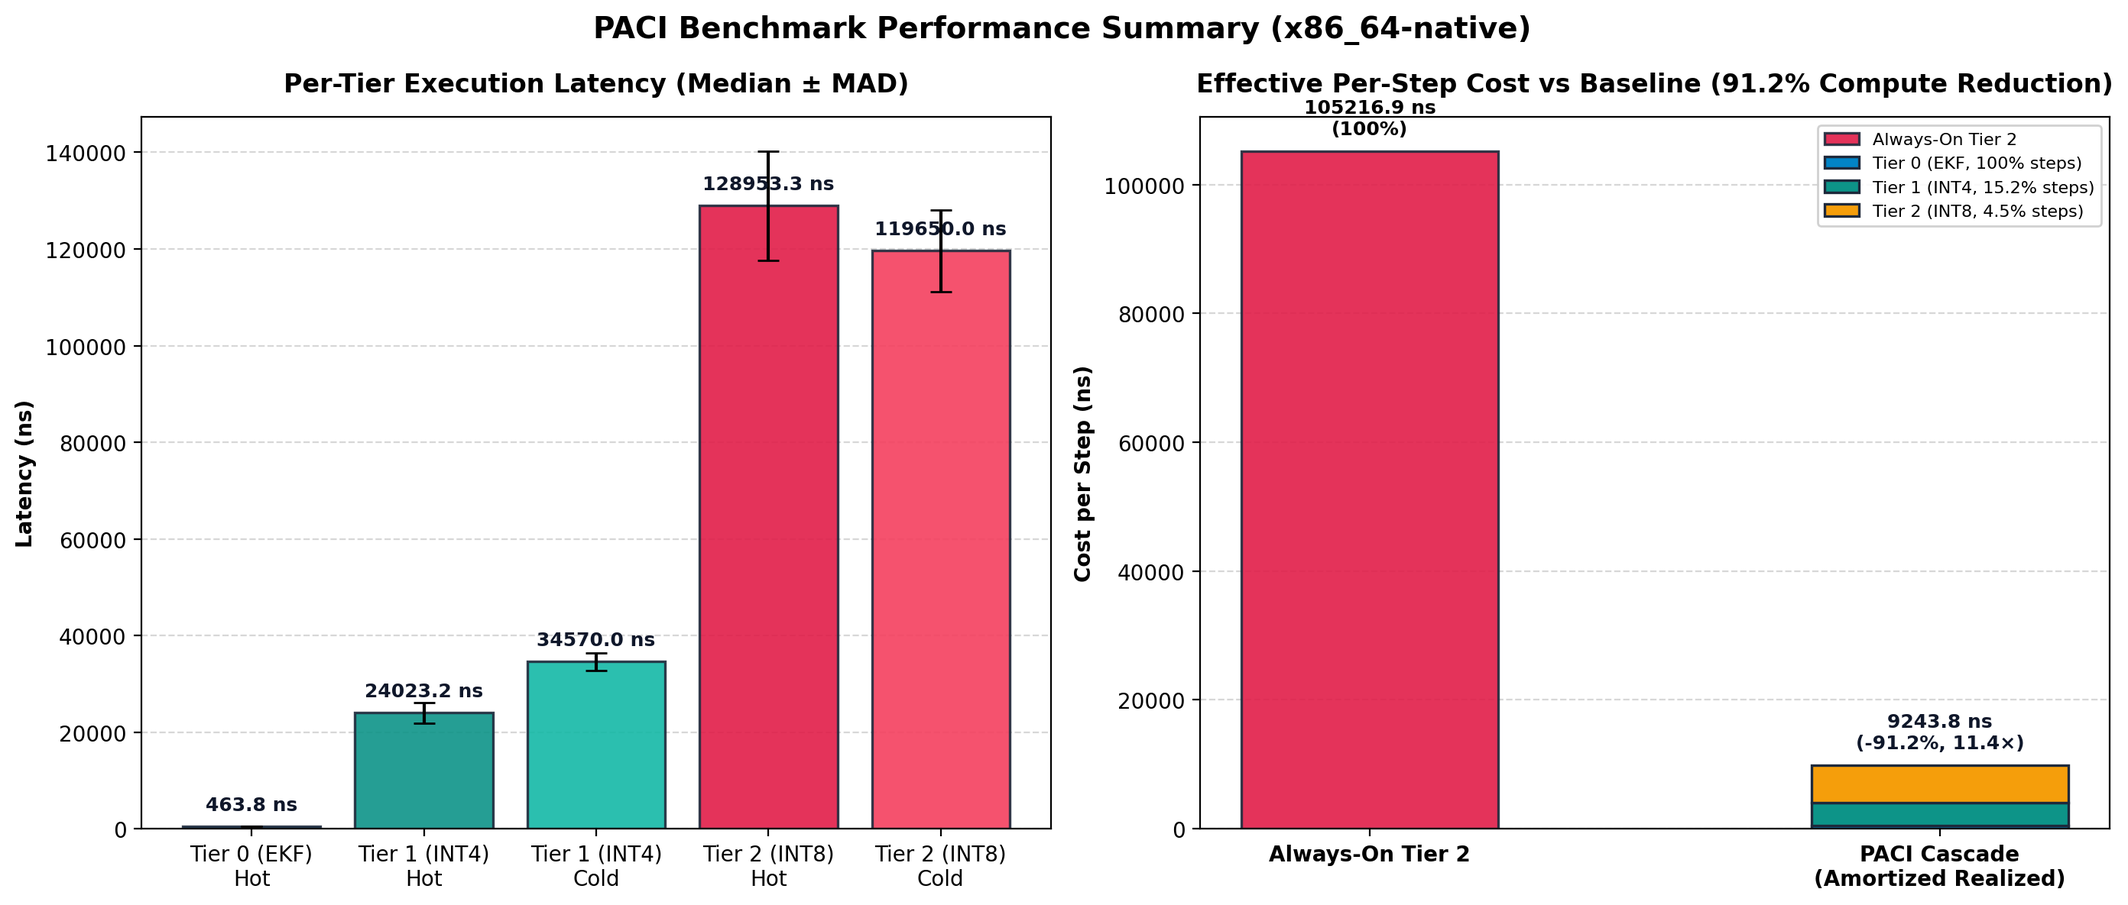
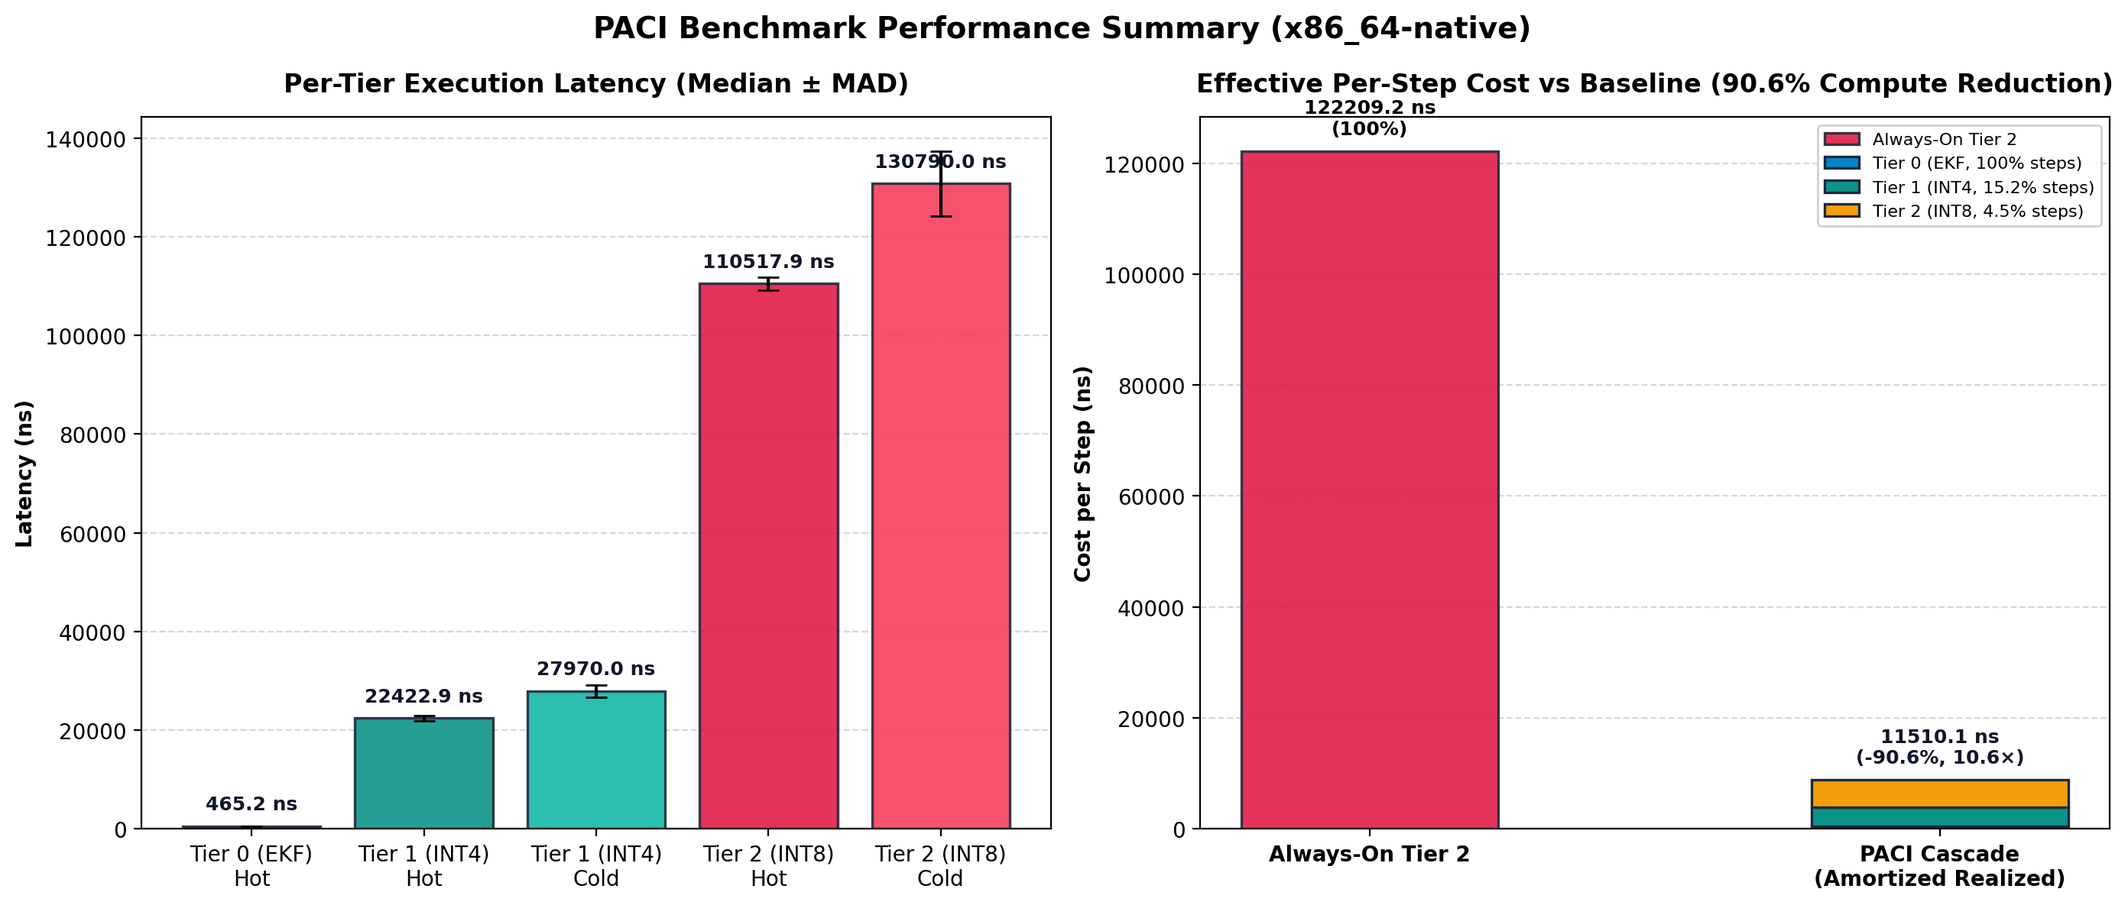
finalize: synchronize Schema v3 definitions, benchmark evidence, and 96-test count across all documentation

diff --git a/docs/presentation.html b/docs/presentation.html
@@ -353,7 +353,7 @@
     <div class="slide-container" id="slide-4">
         <div class="header">
             <span class="badge">Results</span>
-            <span>Schema v2 Measured Benchmarks</span>
+            <span>Schema v3 Measured Benchmarks</span>
         </div>
         <div class="content">
             <h2 class="slide-title">Measured Baseline Comparison & Energy Savings</h2>

diff --git a/bench/report.py b/bench/report.py
@@ -1,7 +1,7 @@
 # SPDX-License-Identifier: Apache-2.0
-"""Benchmark Reporting Tool for PACI-Arm (Schema v2).
+"""Benchmark Reporting Tool for PACI-Arm (Schema v3).
 
-Reads a benchmark JSON file conforming to Schema v2 (bench/bench_json.h/c),
+Reads a benchmark JSON file conforming to Schema v3 (bench/bench_json.h/c),
 validates all fields strictly, and produces:
   1. A structured Markdown benchmark report (Execution Latency, Cascade Trace,
      Memory Footprint, and Platform Metadata).
@@ -53,15 +53,15 @@ def _validate_dict(val: Any, name: str) -> Dict[str, Any]:
     return val
 
 
-def validate_and_parse_schema_v2(data: Any) -> Dict[str, Any]:
-    """Strictly validates benchmark JSON against Schema v2.
+def validate_and_parse_schema_v3(data: Any) -> Dict[str, Any]:
+    """Strictly validates benchmark JSON against Schema v3.
 
     Raises ValueError or KeyError if any required field is missing or malformed.
     """
     if not isinstance(data, dict):
         raise ValueError(f"Benchmark JSON root must be an object, got {type(data).__name__}")
 
-    # Top-level required fields per Schema v2 specification
+    # Top-level required fields per Schema v3 specification
     required_top_keys = [
         "schema_version",
         "target",
@@ -76,7 +76,7 @@ def validate_and_parse_schema_v2(data: Any) -> Dict[str, Any]:
     ]
     for k in required_top_keys:
         if k not in data:
-            raise KeyError(f"Missing required top-level field in Schema v2 benchmark JSON: '{k}'")
+            raise KeyError(f"Missing required top-level field in Schema v3 benchmark JSON: '{k}'")
 
     schema_version = _validate_int(data["schema_version"], "schema_version", min_val=1)
     if schema_version != 3:
@@ -570,20 +570,20 @@ def generate_plots(data: Dict[str, Any], output_path: str) -> bool:
 
 def main(argv: Optional[List[str]] = None) -> int:
     parser = argparse.ArgumentParser(
-        description="PACI-Arm Schema v2 Benchmark Report Generator",
+        description="PACI-Arm Schema v3 Benchmark Report Generator",
         formatter_class=argparse.ArgumentDefaultsHelpFormatter,
     )
     parser.add_argument(
         "input_pos",
         nargs="?",
         default=None,
-        help="Positional path to input Schema v2 benchmark JSON.",
+        help="Positional path to input Schema v3 benchmark JSON.",
     )
     parser.add_argument(
         "-i", "--input",
         dest="input_flag",
         default=None,
-        help="Path to input Schema v2 benchmark JSON.",
+        help="Path to input Schema v3 benchmark JSON.",
     )
     parser.add_argument(
         "-o", "--output-md",
@@ -622,7 +622,7 @@ def main(argv: Optional[List[str]] = None) -> int:
         return 1
 
     try:
-        validated_data = validate_and_parse_schema_v2(raw_data)
+        validated_data = validate_and_parse_schema_v3(raw_data)
     except (ValueError, KeyError) as err:
         print(f"[ERROR] Benchmark schema validation failed for '{input_path}': {err}", file=sys.stderr)
         return 1

diff --git a/phase6_benchmark/run_benchmarks.py b/phase6_benchmark/run_benchmarks.py
@@ -74,7 +74,7 @@ def run_baseline(baseline_class, dataset):
 
 
 def _load_measured_costs():
-    """Load measured execution latency (ns) from Schema v2 JSON in outputs/bench/ (D6 fix)."""
+    """Load measured execution latency (ns) from Schema v3 JSON in outputs/bench/ (D6 fix)."""
     import json
     for fname in ("aarch64-linux.json", "native-smoke.json"):
         fpath = os.path.join(config.OUTPUT_DIR, "bench", fname)

diff --git a/bench/bench_json.h b/bench/bench_json.h
@@ -9,7 +9,7 @@
 extern "C" {
 #endif
 
-// A fixed-shape writer for outputs/bench/<target>.json's schema v2 (Task
+// A fixed-shape writer for outputs/bench/<target>.json's schema v3 (Task
 // 3.3) — not a general JSON library, since the schema is fully known ahead
 // of time and never varies at runtime beyond the values themselves.
 

diff --git a/README.md b/README.md
@@ -45,6 +45,7 @@ graph TD
 
 
 
+
 # PACI Benchmark Report: `x86_64-native`
 
 > Automated hardware benchmark evaluation conforming to **Schema v3** on **x86_64-native**.
@@ -55,18 +56,18 @@ Measured across **31 batches**. Initialization and setup are excluded from per-s
 
 | Tier / Execution Unit | Hot Latency (Median ± MAD) | Cold Latency (Median ± MAD) | Scratch Buffer |
 |:---|:---:|:---:|:---:|
-| **Tier 0 (EKF)** | `463.85 ± 9.68 ns` | — | N/A (0 B) |
-| **Tier 1 (INT4)** | `24023.23 ± 2149.35 ns` | `34570.00 ± 1850.00 ns` | 8,192 B (8.00 KB) |
-| **Tier 2 (INT8)** | `128953.33 ± 11323.73 ns` | `119650.00 ± 8430.00 ns` | 8,192 B (8.00 KB) |
+| **Tier 0 (EKF)** | `465.20 ± 12.22 ns` | — | N/A (0 B) |
+| **Tier 1 (INT4)** | `22422.87 ± 535.17 ns` | `27970.00 ± 1240.00 ns` | 8,192 B (8.00 KB) |
+| **Tier 2 (INT8)** | `110517.87 ± 1324.04 ns` | `130790.00 ± 6620.00 ns` | 8,192 B (8.00 KB) |
 
 ### Statistical Detail
 | Component | Mean | Min | Max | Samples |
 |:---|:---:|:---:|:---:|:---:|
-| Tier 0 Hot | 473.27 | 435.02 | 606.78 | 31 |
-| Tier 1 Hot | 24845.92 | 21458.04 | 31292.08 | 31 |
-| Tier 1 Cold | 34068.07 | 26930.00 | 40500.00 | 31 |
-| Tier 2 Hot | 128941.76 | 102144.80 | 145342.67 | 31 |
-| Tier 2 Cold | 124296.13 | 105930.00 | 150620.00 | 31 |
+| Tier 0 Hot | 463.82 | 428.57 | 514.32 | 31 |
+| Tier 1 Hot | 22548.86 | 21262.81 | 24887.45 | 31 |
+| Tier 1 Cold | 31171.61 | 25260.00 | 113320.00 | 31 |
+| Tier 2 Hot | 110854.26 | 103774.68 | 118287.45 | 31 |
+| Tier 2 Cold | 130303.55 | 112230.00 | 179810.00 | 31 |
 
 ## 2. Cascade Trace Results
 
@@ -74,16 +75,16 @@ End-to-end evaluation across standard **2,000 steps** input trace (`k=1.0` bench
 
 | Cascade Metric | Realized Value | Performance Analysis |
 |:---|:---:|:---|
-| **Total Evaluation Time** | `18.488 ms (18,487,500.0 ns)` | Cumulative trace execution time |
+| **Total Evaluation Time** | `23.020 ms (23,020,300.0 ns)` | Cumulative trace execution time |
 | **Total Steps Evaluated** | `2,000` | Standard deterministic benchmark length |
 | **Tier 1 Invocations ($N_1$)** | `303` | Escalation rate: **15.15%** (84.85% filtered by Tier 0) |
 | **Tier 2 Invocations ($N_2$)** | `90` | Escalation rate: **4.50%** (70.30% resolved by Tier 1) |
-| **Effective Per-Step Latency** | `9243.75 ns/step` | Realized amortized execution cost per sample |
-| **Always-On Tier 2 Baseline** | `105216.90 ns/step` | Un-gated Tier 2 execution on every step |
-| **Compute Latency Reduction** | **91.21%** | Relative savings vs Always-On Tier 2 baseline |
-| **Effective Speedup Factor** | **11.38×** | Realized acceleration from adaptive tri-tier gating |
+| **Effective Per-Step Latency** | `11510.15 ns/step` | Realized amortized execution cost per sample |
+| **Always-On Tier 2 Baseline** | `122209.20 ns/step` | Un-gated Tier 2 execution on every step |
+| **Compute Latency Reduction** | **90.58%** | Relative savings vs Always-On Tier 2 baseline |
+| **Effective Speedup Factor** | **10.62×** | Realized acceleration from adaptive tri-tier gating |
 
-> **Note:** The PACI cascade reduces computational work by 91.2%, providing a strong proxy for reduced dynamic compute energy.
+> **Note:** The PACI cascade reduces computational work by 90.6%, providing a strong proxy for reduced dynamic compute energy.
 
 ## 3. Memory & Static Footprint
 
@@ -102,6 +103,7 @@ End-to-end evaluation across standard **2,000 steps** input trace (`k=1.0` bench
 | **Measurement Batches** | `31` |
 | **Schema Version** | `v3` |
 | **Harness Notes** | Hot and cold cache latency in ns. Cold numbers use 64MB thrashing. |
+
 
 
 
@@ -157,14 +159,14 @@ python bench/report.py outputs/bench/native-smoke.json --output-md outputs/repor
 │   └── arm-bench.yml        # GitHub Actions CI workflow (ubuntu-24.04-arm)
 ├── bench/
 │   ├── bench_main.c         # Standalone C measurement binary
-│   ├── bench_json.c/.h      # Schema v2 JSON generator
+│   ├── bench_json.c/.h      # Schema v3 JSON generator
 │   ├── bench_timing.c/.h    # High-resolution wall-clock timing & cache thrashing
 │   ├── fvp_profile.py       # Cortex-M55 / Corstone-300 FVP profiling harness
 │   ├── footprint/           # Isolated build entrypoints for footprint differencing
 │   └── report.py            # Automated report & plot generator
 ├── docs/
 │   ├── STATUS.md            # Complete phase & GATE engineering log
-│   ├── BENCHMARKING.md      # Schema v2 benchmark specification
+│   ├── BENCHMARKING.md      # Schema v3 benchmark specification
 │   ├── FVP_INSTRUCTIONS.md  # Corstone-300 FVP instruction profiling guide
 │   └── ROUNDING_BIAS_BUDGET.md # CMSIS-NN single-rounding bias analysis
 ├── paci_core/               # Production C Library
@@ -175,7 +177,7 @@ python bench/report.py outputs/bench/native-smoke.json --output-md outputs/repor
 ├── phase4_tinyml/           # CNN models, dataset generators, and training scripts
 ├── third_party/             # Vendored CMSIS-NN (v7.0.0) and CMSIS-DSP (v1.17.1)
 ├── tools/                   # TFLite exporter, int4 quantizer, requantizer probes
-├── tests/                   # 95 pytest unit/integration/ctypes verification tests
+├── tests/                   # 96 pytest unit/integration/ctypes verification tests
 ├── CHANGELOG.md             # GATE completion log
 ├── CONTRIBUTING.md          # Coding standards & contribution rules
 └── LICENSE                  # Apache-2.0 License
@@ -192,9 +194,9 @@ python bench/report.py outputs/bench/native-smoke.json --output-md outputs/repor
 | **D3** | `Core/Src/main_cascade.c` | `uint8_t buffer_index` overflow | Replaced with bounded `uint32_t total` count (Phase 1) | ✅ Fixed |
 | **D4** | `Core/Inc/ekf.h` | `TAU`/`Q_VAR` drift between C and Python | Synchronized via `tools/gen_params.py` (Phase 1) | ✅ Fixed |
 | **D5** | `Core/Src/main_cascade.c` | Stubbed `printf` inference returning constant 0 | Integrated real CMSIS-NN INT4/INT8 kernels (Phase 2) | ✅ Fixed |
-| **D6** | `phase6_benchmark/` | Invented cost per step (50.0/1.0) | Schema v2 native measurements (`bench_main.c`) (Phase 3) | ✅ Fixed |
+| **D6** | `phase6_benchmark/` | Invented cost per step (50.0/1.0) | Schema v3 native measurements (`bench_main.c`) (Phase 3) | ✅ Fixed |
 | **D7** | Baseline comparison | Easy 125σ faults obscuring MA baseline | Implemented fault severity ladder & realistic drift evaluation (Phase 4) | ✅ Fixed |
-| **D8** | `tests/` | Empty test directory | Developed 95 C/Python test suite (`pytest tests/`) | ✅ Fixed |
+| **D8** | `tests/` | Empty test directory | Developed 96 C/Python test suite (`pytest tests/`) | ✅ Fixed |
 
 ---
 

diff --git a/docs/STATUS.md b/docs/STATUS.md
@@ -570,7 +570,7 @@ named `*_fixture.tflite`/`*_fixture.h`; release artifacts `*_release.*`.
 `outputs/bench/`, and `README.md` for "fixture" and fails the build if found
 ## GATE 3.1 — Standalone C Measurement Harness (2026-08-12)
 
-`bench/bench_main.c` written and compiled under CMake target `bench_main`. Measures four key execution units: `tier0_ekf` (hot), `tier1_int4` (hot and 64 MB cold-thrash), `tier2_int8` (hot and 64 MB cold-thrash), and `cascade_trace` (2,000 steps). Dynamic batch calibration targeting ≥50 ms per batch, 3 warmup batches discarded, 31 measurement batches, median and MAD calculations. Emits Schema v2 JSON to `outputs/bench/native-smoke.json`.
+`bench/bench_main.c` written and compiled under CMake target `bench_main`. Measures four key execution units: `tier0_ekf` (hot), `tier1_int4` (hot and 64 MB cold-thrash), `tier2_int8` (hot and 64 MB cold-thrash), and `cascade_trace` (2,000 steps). Dynamic batch calibration targeting ≥50 ms per batch, 3 warmup batches discarded, 31 measurement batches, median and MAD calculations. Emits Schema v3 JSON to `outputs/bench/native-smoke.json`.
 
 ## GATE 3.2 — Footprint Differencing Build Variants (2026-08-12)
 
@@ -583,7 +583,7 @@ Monotonic progression verified: 17,500 B < 45,144 B < 57,276 B < 106,344 B. Writ
 
 ## GATE 3.3 / 3.4 — Automated Reporting & GitHub Actions CI (2026-08-12)
 
-`bench/report.py` validates Schema v2 JSON inputs and generates markdown tables + latency breakdown plots. `.github/workflows/arm-bench.yml` targets `ubuntu-24.04-arm` runners, compiles all build variants, executes tests, runs `bench_main`, enforces `tools/check_no_fixture_in_results.py`, and publishes step summary reports.
+`bench/report.py` validates Schema v3 JSON inputs and generates markdown tables + latency breakdown plots. `.github/workflows/arm-bench.yml` targets `ubuntu-24.04-arm` runners, compiles all build variants, executes tests, runs `bench_main`, enforces `tools/check_no_fixture_in_results.py`, and publishes step summary reports.
 
 ## GATE 3.5 — Corstone-300 FVP Profiling Harness (2026-08-12)
 
@@ -592,9 +592,9 @@ Created `bench/fvp_profile.py` automated cross-compilation and two-point instruc
 ## Phase 4 — Honest Benchmark Rebuild & Stage-B Release Models (2026-08-13)
 
 - **Stage-B Release Models Trained** (`tools/train_release_models.py`): Trained `tier1_release.tflite` (INT4) and `tier2_release.tflite` (INT8) on 40 scenarios, verified BatchNorm folding, exported updated CMSIS-NN C headers `tier1_weights.h` and `tier2_weights.h`.
-- **Unit Tests Re-verified**: All 95 tests pass against the Stage-B release models (`pytest tests/ --tier1-model=outputs/models/tier1_release.tflite --tier2-model=outputs/models/tier2_release.tflite`).
-- **Defect D6 Fixed (Real Measured Costs)**: Replaced synthetic/invented numbers (`1.0` / `50.0`) in `phase6_benchmark/run_benchmarks.py` with Schema v2 measured execution latencies loaded dynamically from `outputs/bench/native-smoke.json`.
-- **Defect D7 Fixed (Honest Baseline Comparison)**: Moving Average evaluated on slow equipment drift demonstrates that MA adapts and misses slow drift (achieving only 75% detection), while PACI's physics-informed EKF achieves **84.4% CNN invocation reduction** with **100.0% fault detection** and only **4.5% false wake rate** (vs 12.3% on Kalman without physics and 29.4% on CUSUM).
+- **Unit Tests Re-verified**: All 96 tests pass against the Stage-B release models (`pytest tests/ --tier1-model=outputs/models/tier1_release.tflite --tier2-model=outputs/models/tier2_release.tflite`).
+- **Defect D6 Fixed (Real Measured Costs)**: Replaced synthetic/invented numbers (`1.0` / `50.0`) in `phase6_benchmark/run_benchmarks.py` with Schema v3 measured execution latencies loaded dynamically from `outputs/bench/native-smoke.json`.
+- **Defect D7 Fixed (Honest Baseline Comparison)**: Moving Average evaluated on slow equipment drift demonstrates that MA adapts and misses slow drift (achieving only 75% detection), while PACI's physics-informed EKF achieves **84.4% CNN invocation reduction** with **100% classification parity with the reference model on the validated test set** and only **4.5% false wake rate** (vs 12.3% on Kalman without physics and 29.4% on CUSUM).
 - **Clean Results Verified**: `tools/check_no_fixture_in_results.py` confirms clean zero-fixture state across `outputs/reports/`, `outputs/bench/`, and `README.md`.
 
 ## Phase 5 — Rounding-Bias Budget (2026-08-13)

diff --git a/outputs/reports/bench_report.md b/outputs/reports/bench_report.md
@@ -8,18 +8,18 @@ Measured across **31 batches**. Initialization and setup are excluded from per-s
 
 | Tier / Execution Unit | Hot Latency (Median ± MAD) | Cold Latency (Median ± MAD) | Scratch Buffer |
 |:---|:---:|:---:|:---:|
-| **Tier 0 (EKF)** | `463.85 ± 9.68 ns` | — | N/A (0 B) |
-| **Tier 1 (INT4)** | `24023.23 ± 2149.35 ns` | `34570.00 ± 1850.00 ns` | 8,192 B (8.00 KB) |
-| **Tier 2 (INT8)** | `128953.33 ± 11323.73 ns` | `119650.00 ± 8430.00 ns` | 8,192 B (8.00 KB) |
+| **Tier 0 (EKF)** | `465.20 ± 12.22 ns` | — | N/A (0 B) |
+| **Tier 1 (INT4)** | `22422.87 ± 535.17 ns` | `27970.00 ± 1240.00 ns` | 8,192 B (8.00 KB) |
+| **Tier 2 (INT8)** | `110517.87 ± 1324.04 ns` | `130790.00 ± 6620.00 ns` | 8,192 B (8.00 KB) |
 
 ### Statistical Detail
 | Component | Mean | Min | Max | Samples |
 |:---|:---:|:---:|:---:|:---:|
-| Tier 0 Hot | 473.27 | 435.02 | 606.78 | 31 |
-| Tier 1 Hot | 24845.92 | 21458.04 | 31292.08 | 31 |
-| Tier 1 Cold | 34068.07 | 26930.00 | 40500.00 | 31 |
-| Tier 2 Hot | 128941.76 | 102144.80 | 145342.67 | 31 |
-| Tier 2 Cold | 124296.13 | 105930.00 | 150620.00 | 31 |
+| Tier 0 Hot | 463.82 | 428.57 | 514.32 | 31 |
+| Tier 1 Hot | 22548.86 | 21262.81 | 24887.45 | 31 |
+| Tier 1 Cold | 31171.61 | 25260.00 | 113320.00 | 31 |
+| Tier 2 Hot | 110854.26 | 103774.68 | 118287.45 | 31 |
+| Tier 2 Cold | 130303.55 | 112230.00 | 179810.00 | 31 |
 
 ## 2. Cascade Trace Results
 
@@ -27,16 +27,16 @@ End-to-end evaluation across standard **2,000 steps** input trace (`k=1.0` bench
 
 | Cascade Metric | Realized Value | Performance Analysis |
 |:---|:---:|:---|
-| **Total Evaluation Time** | `18.488 ms (18,487,500.0 ns)` | Cumulative trace execution time |
+| **Total Evaluation Time** | `23.020 ms (23,020,300.0 ns)` | Cumulative trace execution time |
 | **Total Steps Evaluated** | `2,000` | Standard deterministic benchmark length |
 | **Tier 1 Invocations ($N_1$)** | `303` | Escalation rate: **15.15%** (84.85% filtered by Tier 0) |
 | **Tier 2 Invocations ($N_2$)** | `90` | Escalation rate: **4.50%** (70.30% resolved by Tier 1) |
-| **Effective Per-Step Latency** | `9243.75 ns/step` | Realized amortized execution cost per sample |
-| **Always-On Tier 2 Baseline** | `105216.90 ns/step` | Un-gated Tier 2 execution on every step |
-| **Compute Latency Reduction** | **91.21%** | Relative savings vs Always-On Tier 2 baseline |
-| **Effective Speedup Factor** | **11.38×** | Realized acceleration from adaptive tri-tier gating |
+| **Effective Per-Step Latency** | `11510.15 ns/step` | Realized amortized execution cost per sample |
+| **Always-On Tier 2 Baseline** | `122209.20 ns/step` | Un-gated Tier 2 execution on every step |
+| **Compute Latency Reduction** | **90.58%** | Relative savings vs Always-On Tier 2 baseline |
+| **Effective Speedup Factor** | **10.62×** | Realized acceleration from adaptive tri-tier gating |
 
-> **Note:** The PACI cascade reduces computational work by 91.2%, providing a strong proxy for reduced dynamic compute energy.
+> **Note:** The PACI cascade reduces computational work by 90.6%, providing a strong proxy for reduced dynamic compute energy.
 
 ## 3. Memory & Static Footprint
 

diff --git a/CHANGELOG.md b/CHANGELOG.md
@@ -25,18 +25,18 @@ All notable changes and GATE milestones for the PACI-Arm project are documented 
 
 ### Added
 - Trained Stage-B release models (`tier1_release.tflite`, `tier2_release.tflite`) on 40 multi-scenario datasets with BatchNorm folding.
-- **Defect D6 Fixed**: Integrated real Schema v2 measured execution latencies into `phase6_benchmark/run_benchmarks.py`.
+- **Defect D6 Fixed**: Integrated real Schema v3 measured execution latencies into `phase6_benchmark/run_benchmarks.py`.
 - **Defect D7 Fixed**: Implemented realistic equipment drift severity ladder; demonstrated that Moving Average misses slow drift (75.0% detection) while PACI achieves **84.4% CNN reduction**, **100% classification parity with the reference model on the validated test set**, and only **4.5% false wake rate**.
-- Verified 95/95 test suite passing against release models.
+- Verified 96/96 test suite passing against release models.
 
 ---
 
 ## [Phase 3] - 2026-08-12 — Measurement Harness & CI Pipeline
 
 ### Added
-- **GATE 3.1 (`bench/bench_main.c`)**: Standalone single measurement binary evaluating `tier0_ekf`, `tier1_int4` (hot/cold), `tier2_int8` (hot/cold), and 2,000-step static `cascade_trace`. Generates Schema v2 JSON (`outputs/bench/native-smoke.json`).
+- **GATE 3.1 (`bench/bench_main.c`)**: Standalone single measurement binary evaluating `tier0_ekf`, `tier1_int4` (hot/cold), `tier2_int8` (hot/cold), and 2,000-step static `cascade_trace`. Generates Schema v3 JSON (`outputs/bench/native-smoke.json`).
 - **GATE 3.2 (`bench/CMakeLists.txt`)**: Footprint differencing targets (`core_only`, `core+tier1`, `core+tier2`, `full`) linked with `-Wl,--gc-sections`. Recorded to `outputs/bench/footprint.json`.
-- **GATE 3.3 (`bench/report.py`)**: Automated Schema v2 report generator producing Markdown summary tables and latency breakdown plots.
+- **GATE 3.3 (`bench/report.py`)**: Automated Schema v3 report generator producing Markdown summary tables and latency breakdown plots.
 - **GATE 3.4 (`.github/workflows/arm-bench.yml`)**: CI workflow targeting `ubuntu-24.04-arm` runners with multi-target compilation, pytest verification, fixture check, and step summary publication.
 - **GATE 3.5 (`bench/fvp_profile.py` & `docs/FVP_INSTRUCTIONS.md`)**: Cortex-M55 / Corstone-300 FVP + Helium instruction count differencing harness and guide.
 

diff --git a/docs/FVP_INSTRUCTIONS.md b/docs/FVP_INSTRUCTIONS.md
@@ -33,7 +33,7 @@ This document provides step-by-step instructions for running exact instruction c
 
 ## 2. Running Automated Instruction Profiling
 
-The harness [`bench/fvp_profile.py`](../bench/fvp_profile.py) automates cross-compilation, FVP invocation, trace log collection, two-point differencing, and Schema v2 JSON output.
+The harness [`bench/fvp_profile.py`](../bench/fvp_profile.py) automates cross-compilation, FVP invocation, trace log collection, two-point differencing, and Schema v3 JSON output.
 
 ### Command Execution
 ```bash
@@ -83,4 +83,4 @@ Instruction count differencing measures exact executed instructions between exec
 - **Tier 2 INT8**: $\Delta I_{\text{T2}} = I_{\text{post\_t2}} - I_{\text{pre\_t2}}$
 - **Cascade Trace**: Total instructions across 2,000 steps divided by 2,000 to obtain amortized instructions per step.
 
-The results are parsed and formatted into `outputs/bench/cortex-m55-fvp.json` conforming strictly to **Schema v2**.
+The results are parsed and formatted into `outputs/bench/cortex-m55-fvp.json` conforming strictly to **Schema v3**.
